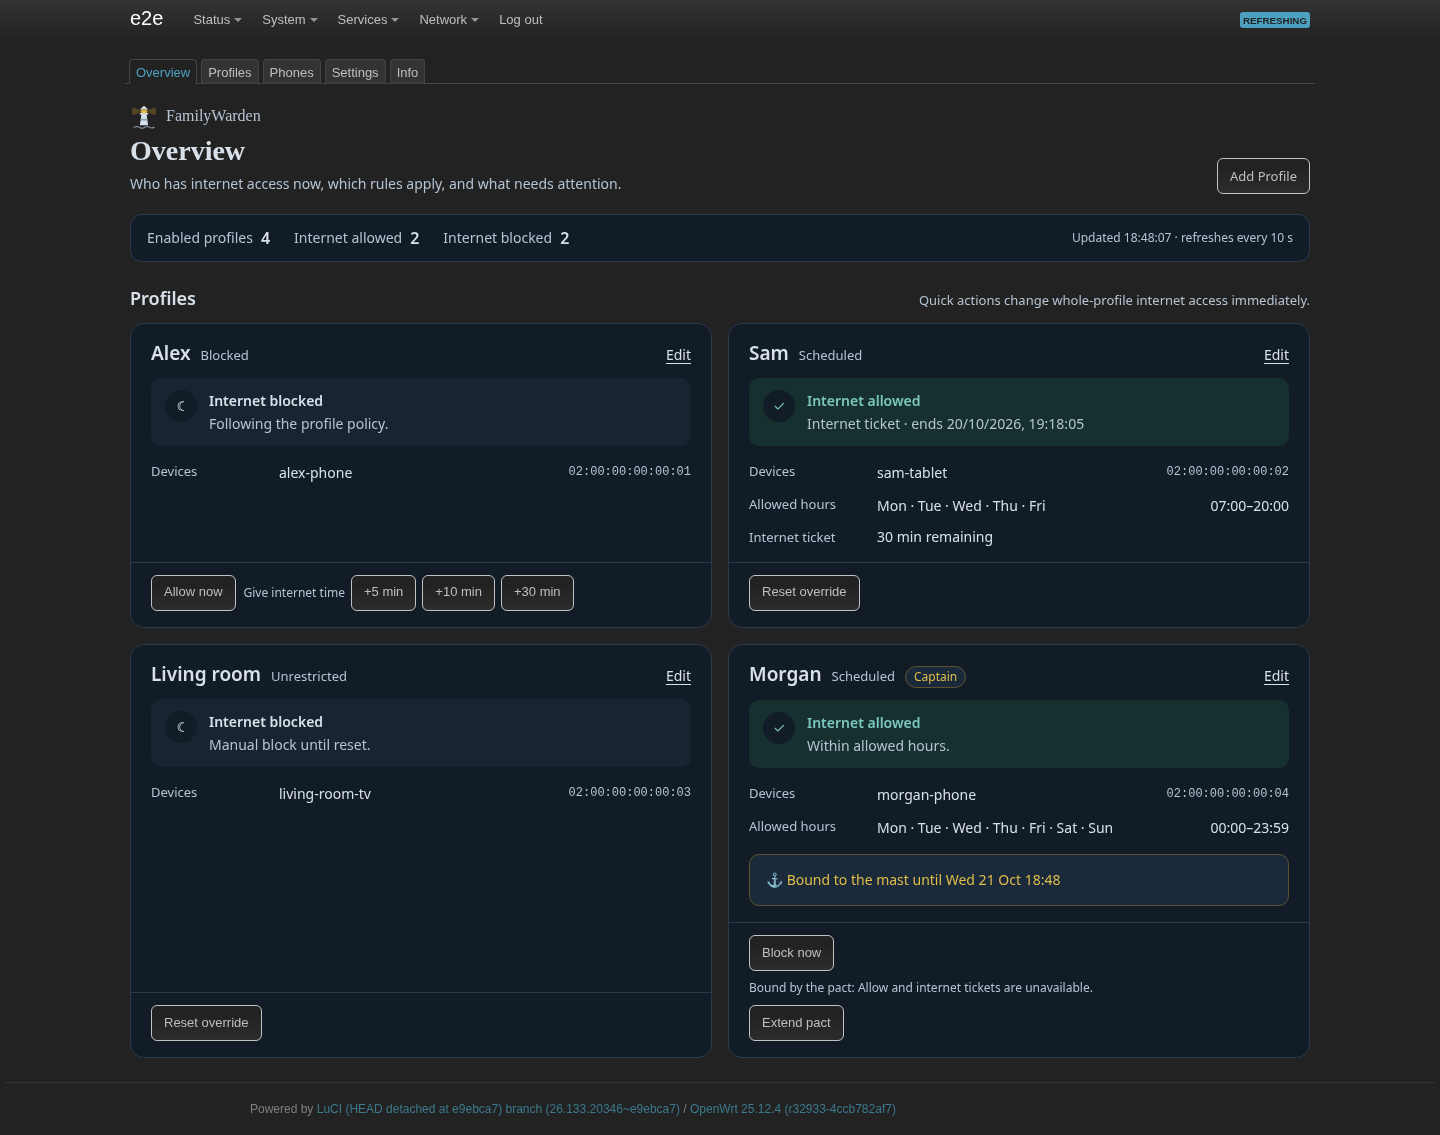
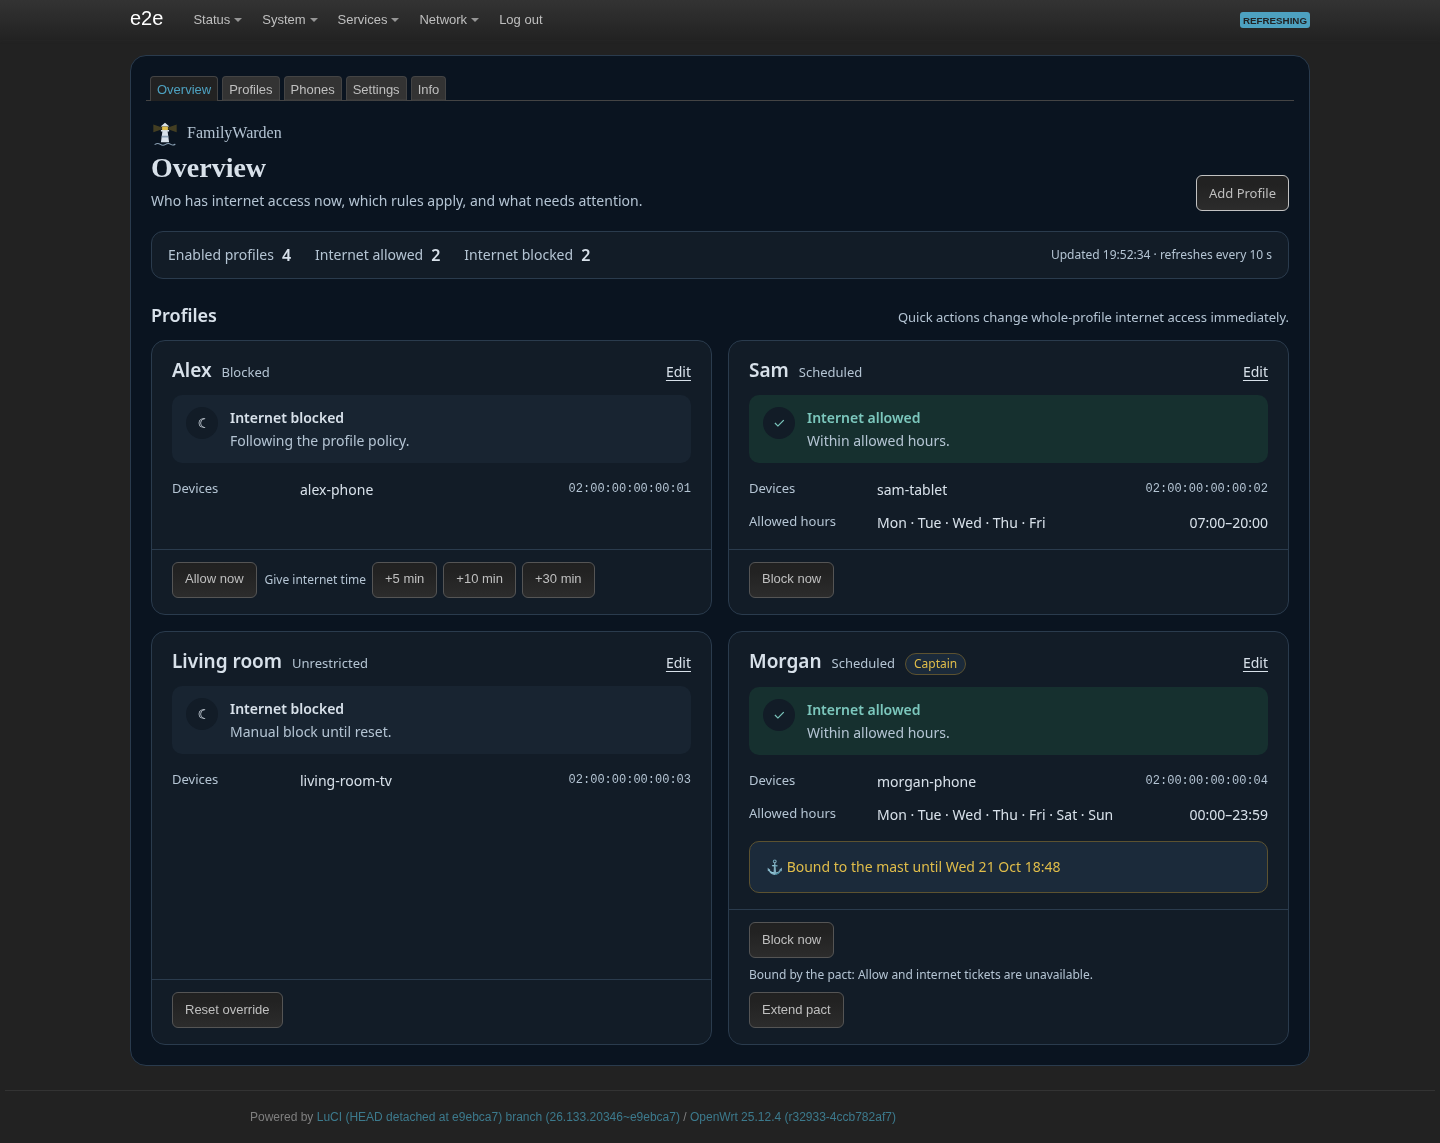
Enclose LuCI Overview in a scoped blue page surface

diff --git a/test/e2e/overview.spec.js b/test/e2e/overview.spec.js
@@ -135,9 +135,11 @@ test('responsive scoped styles follow LuCI theme and do not restyle other pages'
   for (const dark of [false, true]) {
     await page.evaluate(d => document.documentElement.setAttribute('data-darkmode', String(d)), dark);
     await expect(page.locator('.fw-card').first()).toHaveCSS('background-color', dark ? 'rgb(18, 28, 39)' : 'rgb(255, 255, 255)');
+    await expect(page.locator('#maincontent')).toHaveCSS('background-color', dark ? 'rgb(10, 20, 32)' : 'rgb(234, 240, 246)');
     for (const width of [1440, 720, 390, 320]) {
       await page.setViewportSize({ width, height: 900 });
       expect(await page.locator('#fw-dashboard').evaluate(el => el.scrollWidth <= el.clientWidth + 1)).toBe(true);
+      expect(await page.locator('#maincontent').evaluate(el => el.getBoundingClientRect().right <= innerWidth + 1)).toBe(true);
     }
   }
   await page.setViewportSize({ width: 1440, height: 900 });
@@ -146,7 +148,9 @@ test('responsive scoped styles follow LuCI theme and do not restyle other pages'
   // Simulate keeping the stylesheet loaded when leaving the Overview.
   await page.evaluate(() => { document.body.style.zoom = ''; });
   await page.goto(`${URL}/profiles`);
+  const originalBackground = await page.locator('#maincontent').evaluate(el => getComputedStyle(el).backgroundColor);
   await page.addStyleTag({ url: `${BASE}/luci-static/resources/familywarden/overview.css` });
+  await expect(page.locator('#maincontent')).toHaveCSS('background-color', originalBackground);
   await expect(page.locator('[data-name="policy"] select')).toBeVisible();
   await expect(page.locator('#fw-dashboard')).toHaveCount(0);
 });

diff --git a/luci-app-familywarden/htdocs/luci-static/resources/familywarden/overview.css b/luci-app-familywarden/htdocs/luci-static/resources/familywarden/overview.css
@@ -1,4 +1,28 @@
 /* Overview only. LuCI owns navigation, dialogs, controls and the surrounding theme. */
+/* The native tabs are siblings of #view. :has() keeps this panel page-local
+   without moving LuCI DOM nodes or leaving a theme class behind on navigation. */
+#maincontent:has(#fw-dashboard) {
+	box-sizing: border-box;
+	padding: 16px 20px 20px;
+	margin-bottom: 24px;
+	background: #eaf0f6;
+	border: 1px solid #cdd6df;
+	border-radius: 16px;
+}
+:root[data-darkmode="true"] #maincontent:has(#fw-dashboard) {
+	background: #0a1420;
+	border-color: #2a3b4d;
+}
+#maincontent:has(#fw-dashboard) #tabmenu .tabs {
+	--tab-bar-background-color: #eaf0f6;
+}
+:root[data-darkmode="true"] #maincontent:has(#fw-dashboard) #tabmenu .tabs {
+	--tab-bar-background-color: #0a1420;
+}
+#maincontent:has(#fw-dashboard) #fw-dashboard { margin-bottom: 0; }
+@media (max-width: 640px) {
+	#maincontent:has(#fw-dashboard) { padding: 12px; border-radius: 12px; }
+}
 #fw-dashboard {
 	--fw-surface: #fff;
 	--fw-sunk: #f6f8fa;

diff --git a/docs/design/luci/README.md b/docs/design/luci/README.md
@@ -16,6 +16,9 @@ Overview is implemented in the existing LuCI view, not as a theme:
   and captain pact information using existing RPCs and shared pact controls.
 - `familywarden/overview.css` is explicitly packaged and scoped to `#fw-dashboard`.
 - Native LuCI navigation, dialogs and buttons remain. No mock `.lx-*` chrome ships.
+- A blue page surface now encloses Overview and its native tabs, with a subtle border
+  and rounded corners. It is selected only while `#fw-dashboard` exists, using CSS
+  `:has()` (modern browser required); no persistent global theme/class change.
 - Bootstrap's installed `data-darkmode` attribute was checked against its actual CSS
   and used for the branded dark palette. Other LuCI themes still require verification.
 - The unused Save/Apply/Reset footer is omitted on this immediate-action page only.
@@ -46,6 +49,9 @@ other pages remains pending, including the measured Profiles overflow at 390 px.
   and refresh failures, genuine empty state, focus retention, light/dark, 320–1440 px,
   200% CSS zoom/reflow and stylesheet coexistence with the profile editor.
 - Screenshots inspected in actual disposable LuCI: desktop light/dark and 390 px dark.
+- Blue-frame follow-up: targeted responsive/theme/isolation browser test passes at
+  320–1440 px and 200% CSS zoom. Other pages retain their original background even
+  with the Overview stylesheet loaded. No enforcement code changed in this follow-up.
 - No Android emulator suite: Android and backend enforcement were not changed.
 - No live router, AdGuard Home, phone or production pact was modified.
 
